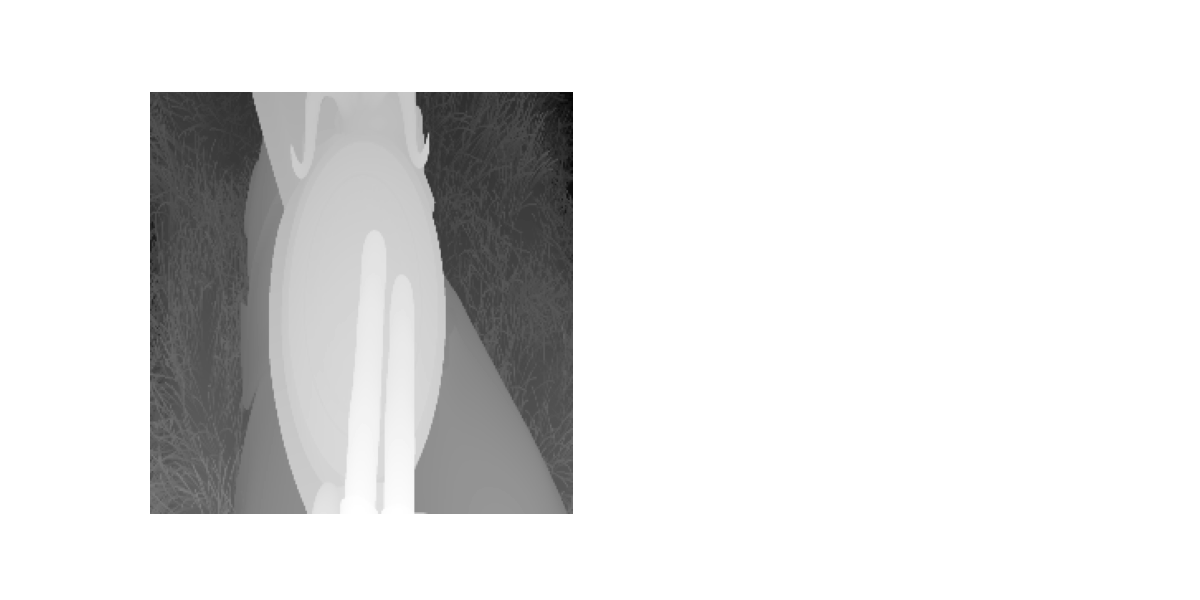
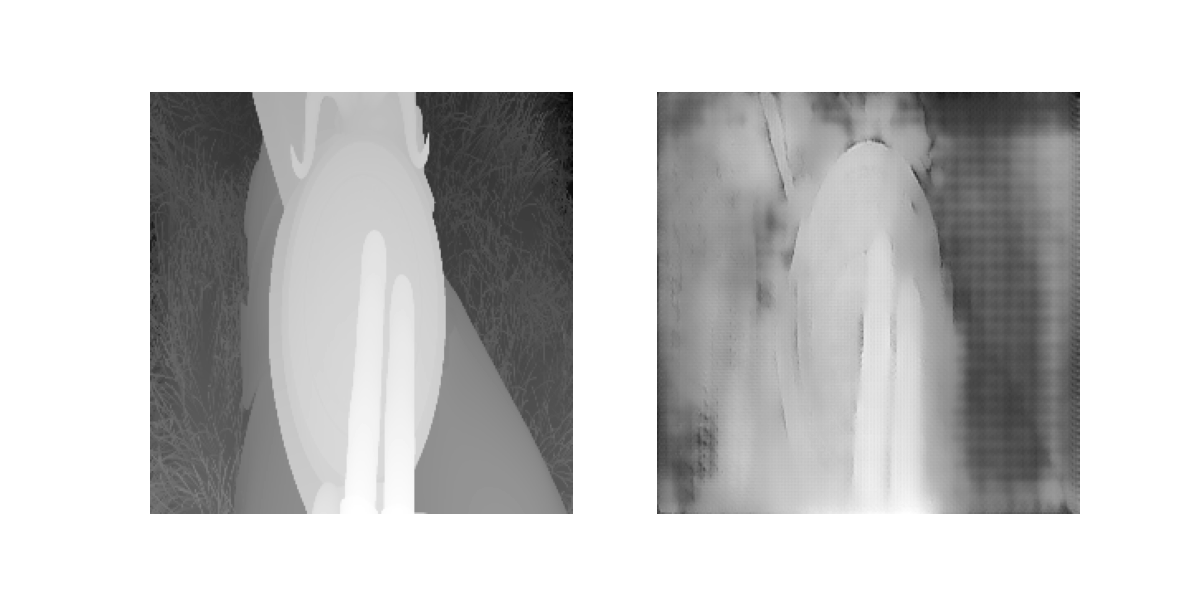
100k difference

Changed region(s): [[0.5242, 0.15, 0.925, 0.87]]

diff --git a/pix2pix.py b/pix2pix.py
@@ -14,7 +14,7 @@ from tensorflow import keras
 from tensorflow.keras import layers
 
 # Definition of global variables
-INPUT_DIM = (256, 256, 3)
+INPUT_DIM = (256, 256, 9)
 OUTPUT_CHANNELS = 1 # Grayscale image representing disparity
 BATCH_SIZE = 1
 R_LOSS_FACTOR = 10000
@@ -76,6 +76,10 @@ def load_images(left_file, right_file, target_file):
     # Substract images
     x = lx - rx
     x = x/2.0
+
+    # Concat images
+
+    x = tf.concat([lx, rx, x], axis=-1)
     
     return x, y
 
@@ -86,11 +90,11 @@ def display_images(x_imgs=None, y_imgs=None, rows=4, cols=1, fname='output'):
     for k in range(rows*cols):
 
         plt.subplot(rows, cols*3, 3*k + 1)
-        plt.imshow(((x_imgs[k]) + 1)/2) # Left-view
+        plt.imshow(((x_imgs[k])[..., :3] + 1)/2) # Left-view
         plt.axis('off')
 
         plt.subplot(rows, cols*3, 3*k + 2)
-        plt.imshow(((x_imgs[k]) + 1)/2) # Right-view
+        plt.imshow(((x_imgs[k])[..., 3:6] + 1)/2) # Right-view
         plt.axis('off')
 
         plt.subplot(rows, cols*3, 3*k + 3)
@@ -248,7 +252,7 @@ plt.savefig("test_generator.png")
 def Discriminator():
     initializer = tf.random_normal_initializer(0., 0.02)
 
-    inp = tf.keras.layers.Input(shape=[256, 256, 3], name='input_image')
+    inp = tf.keras.layers.Input(shape=[256, 256, 9], name='input_image')
     tar = tf.keras.layers.Input(shape=[256, 256, 1], name='target_image')
     x = tf.keras.layers.concatenate([inp, tar],  axis=-1)
 
@@ -378,7 +382,7 @@ def fit(train_ds, test_ds, steps):
       checkpoint.save(file_prefix=checkpoint_prefix)
 
 
-fit(train_lx_rx_y, test_lx_rx_y, steps=1000)
+fit(train_lx_rx_y, test_lx_rx_y, steps=100000)
 example_input, example_target = next(iter(test_lx_rx_y.take(1)))
 
 plt.figure(figsize=(12, 6))
